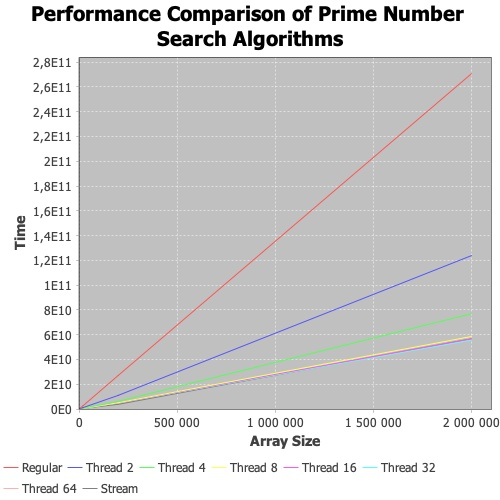
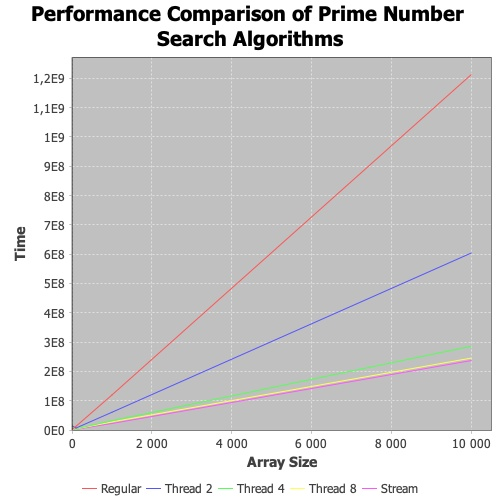
Revert "fixes"
This reverts commit b526300413218595603bb0d026707bab20376de7.

diff --git a/Task_2_1_1/src/test/java/ru/nsu/yakovleva/notprime/PerfTest.java b/Task_2_1_1/src/test/java/ru/nsu/yakovleva/notprime/PerfTest.java
@@ -46,19 +46,14 @@ public class PerfTest {
     private long singleTest(NotPrimeSearch notPrimeSearch, int[] array) throws
             ExecutionException, InterruptedException {
         List<Long> results = new ArrayList<>();
-
         for (int i = 0; i < 3; ++i) {
-            long startTime = System.nanoTime();
+            long time = System.nanoTime();
             notPrimeSearch.search(array);
-            long endTime = System.nanoTime();
-            results.add(endTime - startTime);
+            time = System.nanoTime() - time;
+            results.add(time);
         }
-
-        // calculate the average time
-        long total = results.stream().mapToLong(Long::longValue).sum();
-        return total / results.size();
+        return Collections.min(results);
     }
-
 
     /**
      * Conducts a performance test for different
@@ -75,22 +70,15 @@ public class PerfTest {
         XYSeries series2 = new XYSeries("Thread 2");
         XYSeries series3 = new XYSeries("Thread 4");
         XYSeries series4 = new XYSeries("Thread 8");
-        XYSeries series5 = new XYSeries("Thread 16");
-        XYSeries series6 = new XYSeries("Thread 32");
-        XYSeries series7 = new XYSeries("Thread 64");
-        XYSeries series8 = new XYSeries("Stream");
+        XYSeries series5 = new XYSeries("Stream");
 
-        //try 20mil
-        for (int size = 20; size <= 2000000; size *= 10) {
+        for (int size = 10; size <= 10000; size *= 10) {
             int[] array = createArray(size);
             series1.add(size, singleTest(new NotPrimeSearch(), array));
             series2.add(size, singleTest(new ThreadNotPrimeSearch(2), array));
             series3.add(size, singleTest(new ThreadNotPrimeSearch(4), array));
             series4.add(size, singleTest(new ThreadNotPrimeSearch(8), array));
-            series5.add(size, singleTest(new ThreadNotPrimeSearch(16), array));
-            series6.add(size, singleTest(new ThreadNotPrimeSearch(32), array));
-            series7.add(size, singleTest(new ThreadNotPrimeSearch(64), array));
-            series8.add(size, singleTest(new StreamNotPrimeSearch(), array));
+            series5.add(size, singleTest(new StreamNotPrimeSearch(), array));
         }
 
         dataset.addSeries(series1);
@@ -98,9 +86,6 @@ public class PerfTest {
         dataset.addSeries(series3);
         dataset.addSeries(series4);
         dataset.addSeries(series5);
-        dataset.addSeries(series6);
-        dataset.addSeries(series7);
-        dataset.addSeries(series8);
         PerformanceTest chart = new PerformanceTest(dataset);
         chart.createFile();
     }

diff --git a/Task_2_1_1/src/main/java/ru/nsu/yakovleva/notprime/ThreadNotPrimeSearch.java b/Task_2_1_1/src/main/java/ru/nsu/yakovleva/notprime/ThreadNotPrimeSearch.java
@@ -46,9 +46,13 @@ public class ThreadNotPrimeSearch extends NotPrimeSearch {
      *
      * @param array The integer array to search.
      * @return true if a non-prime number is found, false otherwise.
+     * @throws ExecutionException   if the computation threw an exception.
+     * @throws InterruptedException if the current thread was interrupted while waiting.
+     * @throws NullPointerException if the input array is null.
      */
     @Override
-    public boolean search(int[] array) {
+    public boolean search(int[] array) throws ExecutionException,
+            InterruptedException, NullPointerException {
         if (array == null) {
             throw new NullPointerException();
         }
@@ -69,21 +73,16 @@ public class ThreadNotPrimeSearch extends NotPrimeSearch {
         };
 
         ExecutorService pool = Executors.newFixedThreadPool(numThreads);
-        try {
-            List<Future<Boolean>> results = pool.invokeAll(Collections.nCopies(numThreads, task));
+        List<Future<Boolean>> results = pool.invokeAll(Collections.nCopies(numThreads, task));
 
-            for (Future<Boolean> result : results) {
-                if (result.get()) {
-                    return true;
-                }
+        for (Future<Boolean> result : results) {
+            if (result.get()) {
+                pool.shutdownNow();
+                return true;
             }
-        } catch (InterruptedException | ExecutionException e) {
-            e.printStackTrace();  // Print the exception details
-        } finally {
-            pool.shutdownNow();
         }
 
+        pool.shutdownNow();
         return false;
     }
-
 }
